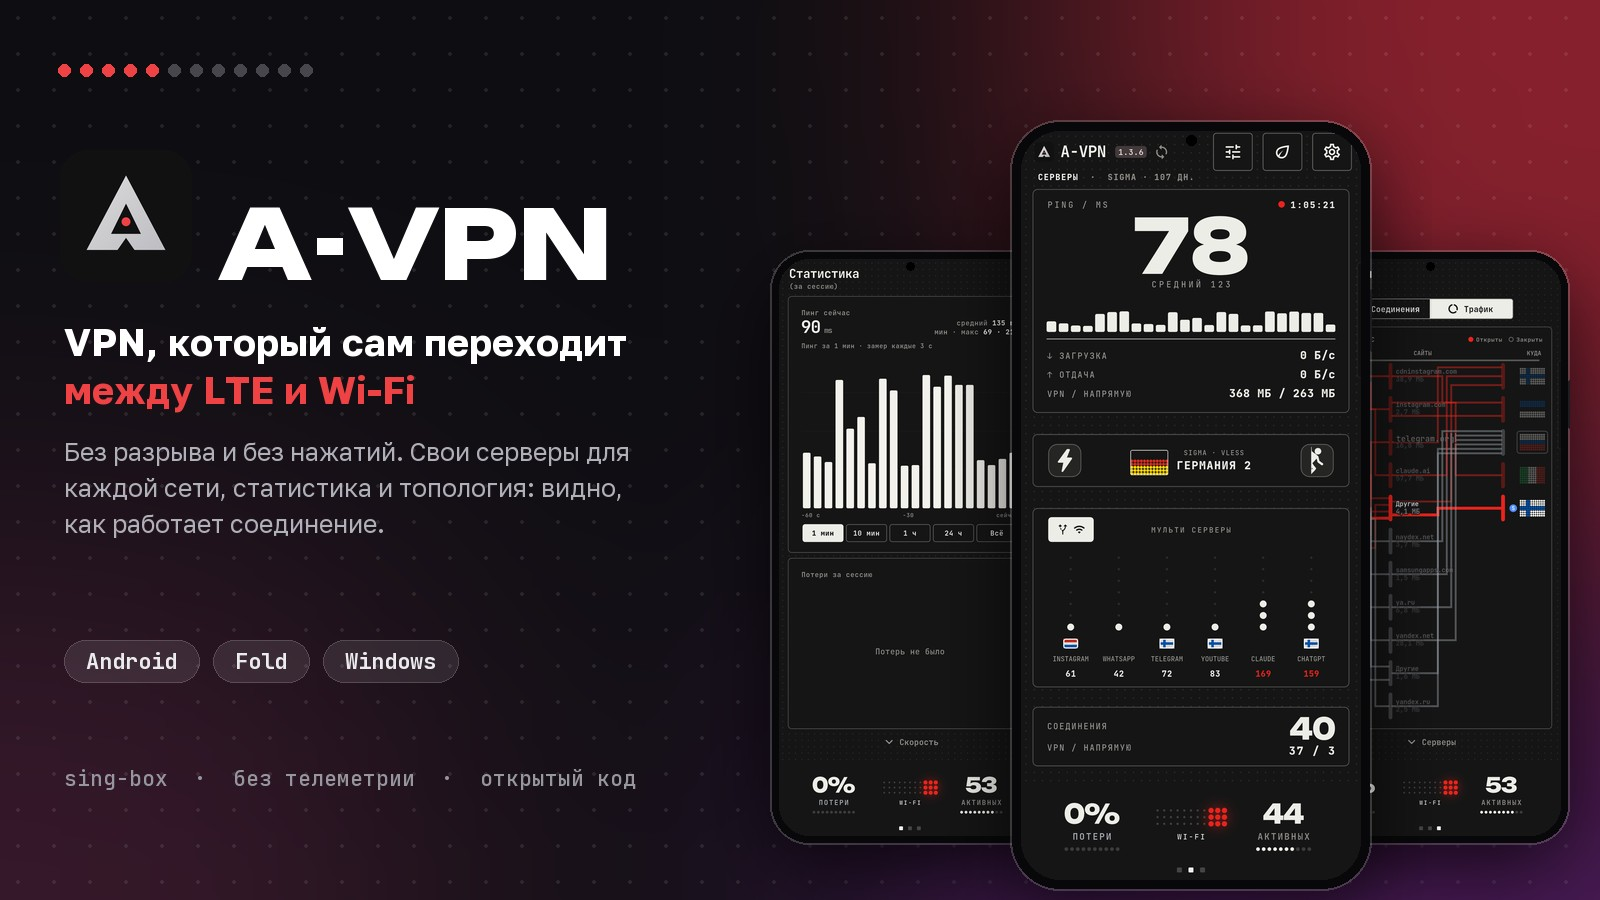
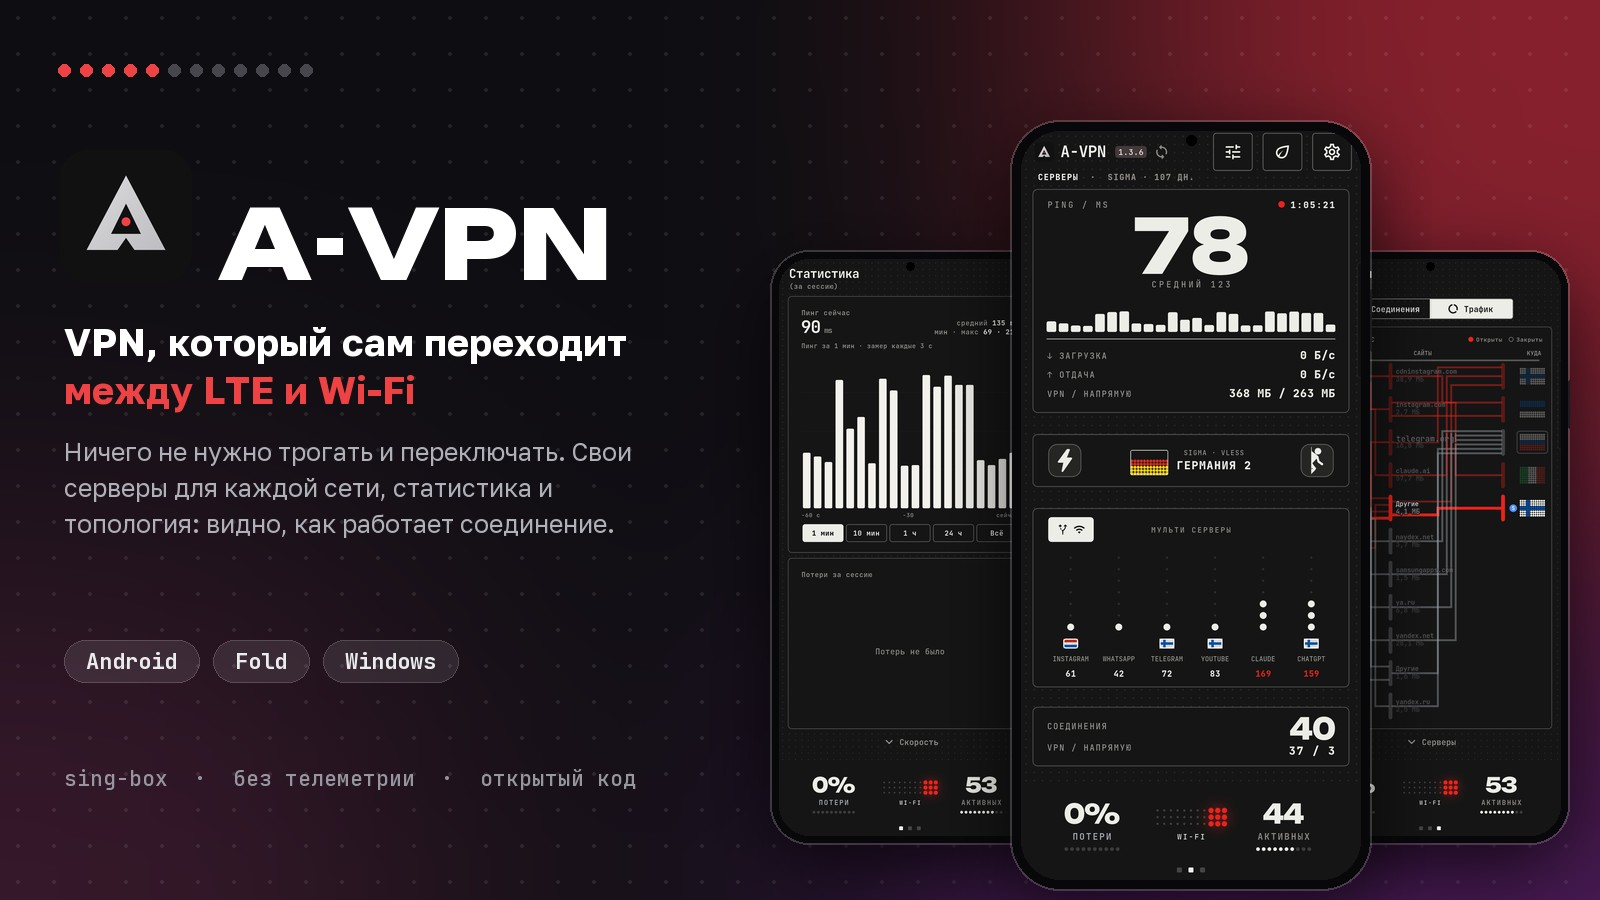
README: the point is nothing to touch or switch; no metro, no trial days on the profiles shot

Changed region(s): [[0.0312, 0.4978, 0.4062, 0.5911]]

diff --git a/README.md b/README.md
@@ -6,7 +6,7 @@
 
 <p align="center">
   <b>VPN, который сам переходит между LTE и Wi-Fi.</b><br>
-  Без разрыва и без нажатий. Android, Fold и Windows, ядро sing-box, без телеметрии.
+  Ничего не нужно трогать и переключать. Android, Fold и Windows, ядро sing-box, без телеметрии.
 </p>
 
 <p align="center">
@@ -33,7 +33,7 @@
   <img src="docs/screenshots/handoff.jpg" alt="Автоматический переход между Wi-Fi и LTE: свои серверы и страны для каждой сети, без разрыва">
 </p>
 
-Вышли из дома, зашли в метро, подключились к Wi-Fi: приложение само замечает смену сети и переключается. VPN не отключается, соединения не рвутся, а серверы и страны меняются на те, что выбраны для новой сети: обычные в Wi-Fi, для белых списков (БС) в LTE. Нажимать ничего не нужно.
+Ничего не нужно трогать и переключать. Вышли из дома или подключились к Wi-Fi: приложение само замечает смену сети. VPN не отключается, соединения не рвутся, а серверы и страны меняются на те, что выбраны для новой сети: обычные в Wi-Fi, для белых списков (БС) в LTE.
 
 ## Скачать
 
@@ -175,7 +175,7 @@
 
 **A-VPN** is a VPN client for Android and Windows built on the sing-box core. It picks servers for the network you are on, switches between Wi-Fi and LTE without dropping the tunnel, and shows how the connection performs. It is an independent fork of [Hiddify](https://github.com/hiddify/hiddify-app) released under its license and is not affiliated with the Hiddify team.
 
-- **Automatic Wi-Fi ⇄ LTE handoff (the main feature).** The app notices the network change by itself and switches servers and countries to the ones chosen for it; the VPN stays on, no taps needed.
+- **Automatic Wi-Fi ⇄ LTE handoff (the main feature).** Nothing to touch or switch: the app notices the network change by itself and moves to the servers and countries chosen for it, and the VPN stays on.
 - **As many subscriptions as you like.** All servers in one list, with a priority subscription, order and on/off switches.
 - **Servers per network.** Whitelist-friendly servers on mobile data, regular ones on Wi-Fi.
 - **Steady connection.** Latency and loss are measured all the time, the server is switched in good time, the link is checked after the device wakes up.
